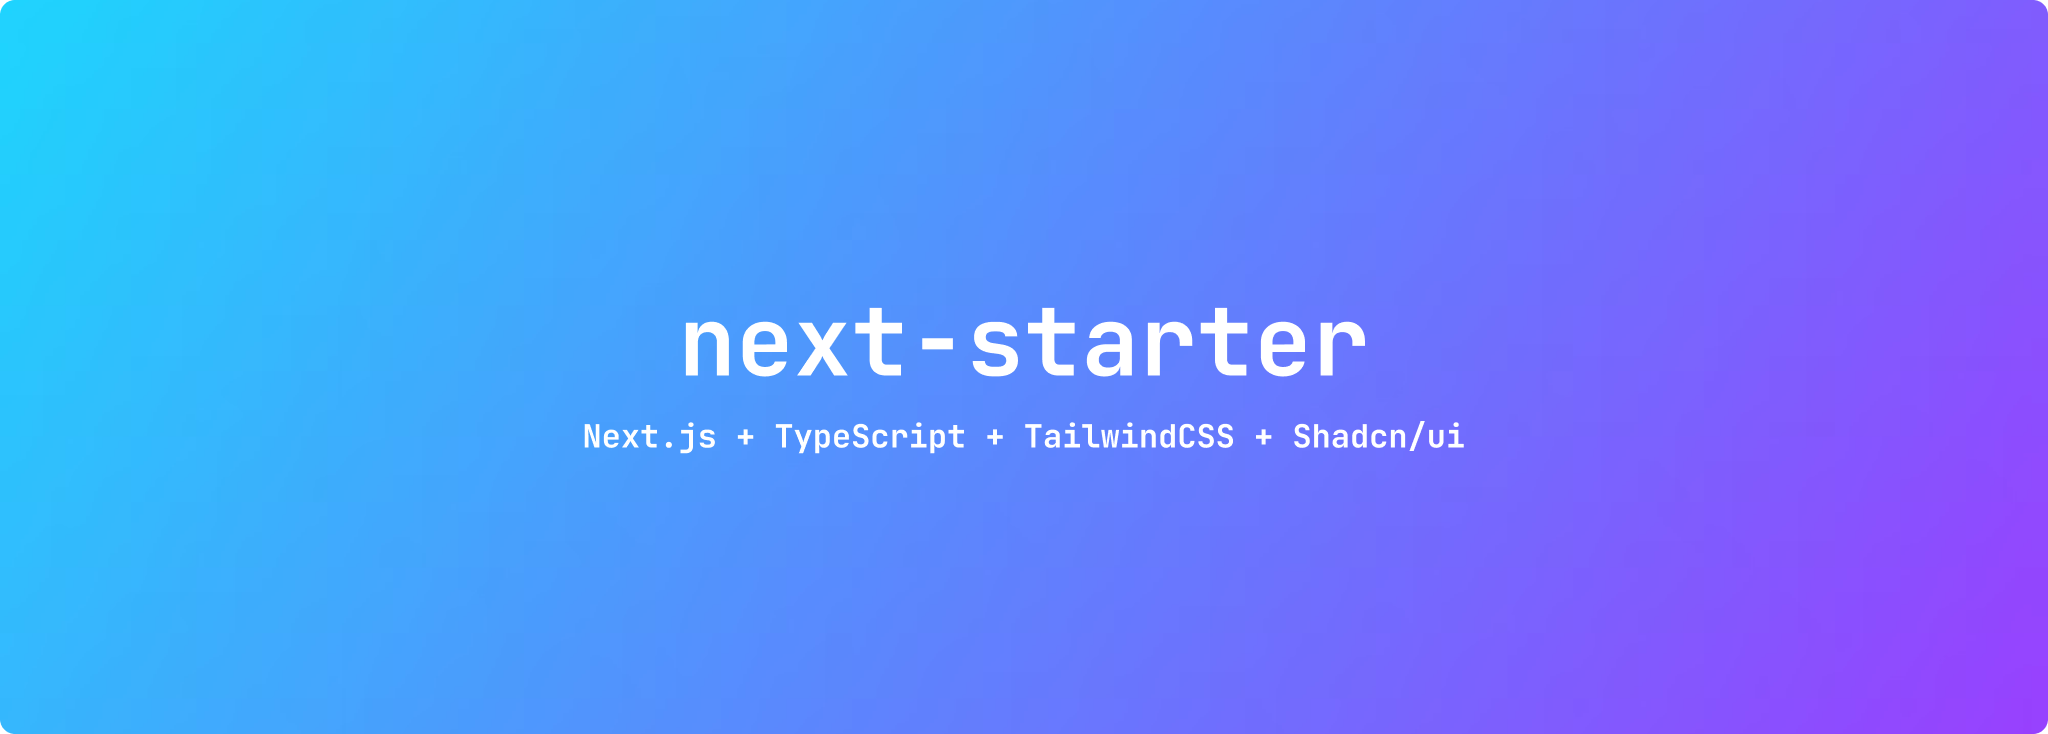
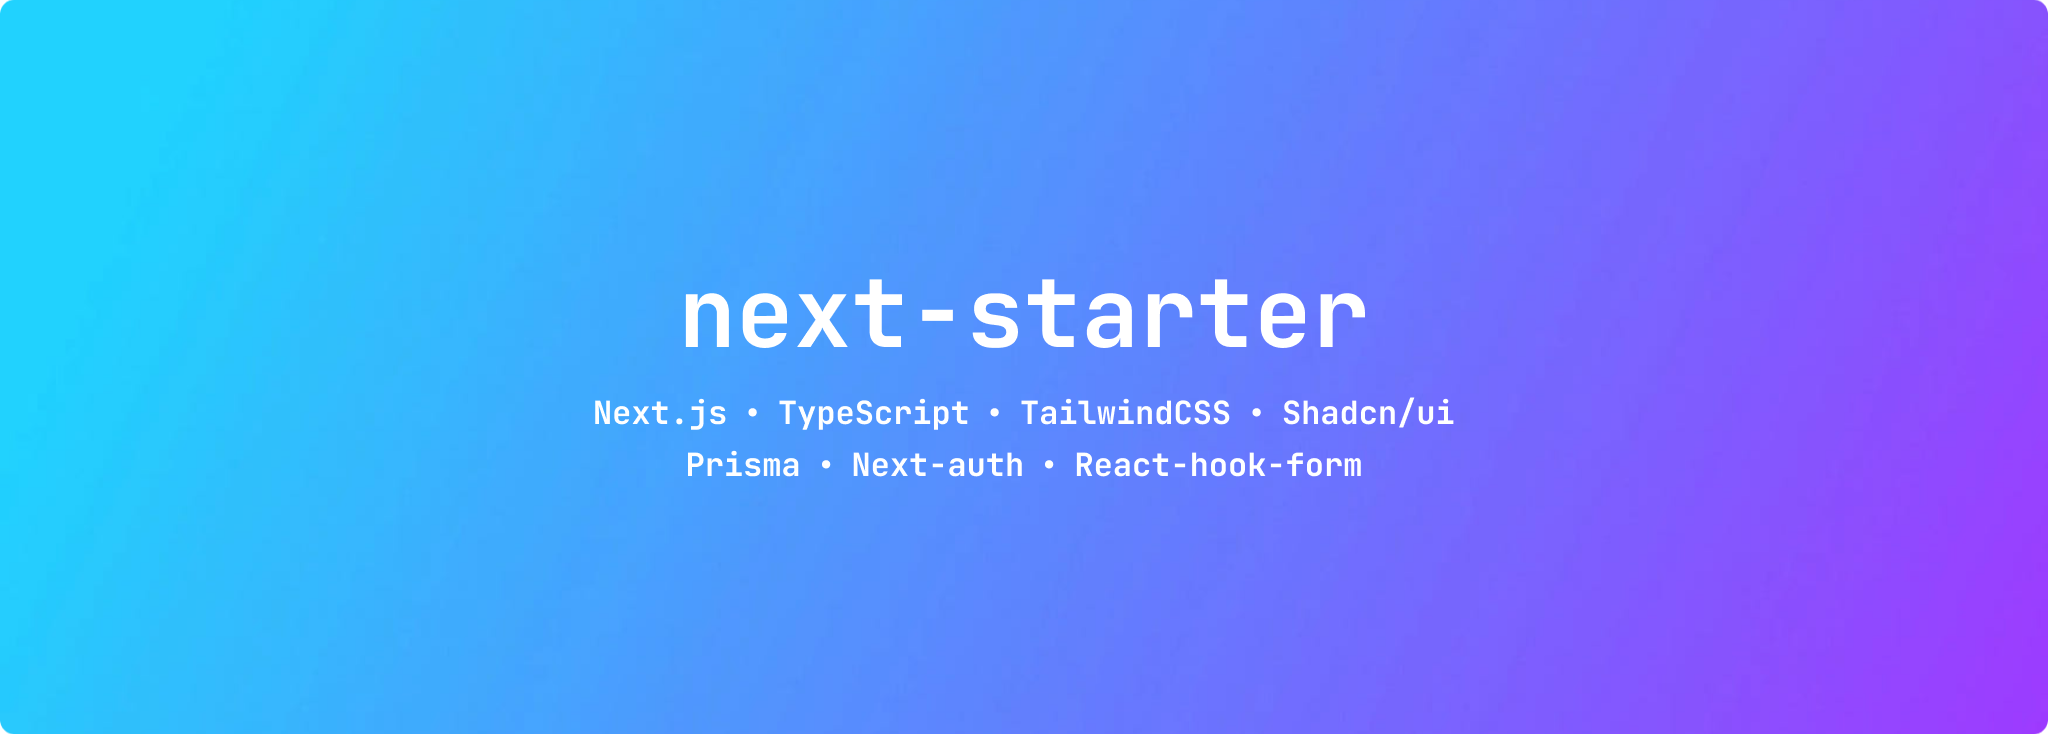
Feature/NS-31-change-shadcn/ui-theme (#77)
* feat: change theme

* fix: change the icons dark/light mode

* feat: add updated og image

Changed region(s): [[0.2812, 0.5395, 0.7188, 0.6594], [0.3125, 0.3896, 0.6875, 0.5095]]

diff --git a/src/styles/globals.css b/src/styles/globals.css
@@ -1,71 +1,54 @@
 @tailwind base;
 @tailwind components;
 @tailwind utilities;
- 
+
 @layer base {
   :root {
     --background: 0 0% 100%;
-    --foreground: 222.2 84% 4.9%;
-
+    --foreground: 240 10% 3.9%;
     --card: 0 0% 100%;
-    --card-foreground: 222.2 84% 4.9%;
- 
+    --card-foreground: 240 10% 3.9%;
     --popover: 0 0% 100%;
-    --popover-foreground: 222.2 84% 4.9%;
- 
-    --primary: 222.2 47.4% 11.2%;
-    --primary-foreground: 210 40% 98%;
- 
-    --secondary: 210 40% 96.1%;
-    --secondary-foreground: 222.2 47.4% 11.2%;
- 
-    --muted: 210 40% 96.1%;
-    --muted-foreground: 215.4 16.3% 46.9%;
- 
-    --accent: 210 40% 96.1%;
-    --accent-foreground: 222.2 47.4% 11.2%;
- 
+    --popover-foreground: 240 10% 3.9%;
+    --primary: 240 5.9% 10%;
+    --primary-foreground: 0 0% 98%;
+    --secondary: 240 4.8% 95.9%;
+    --secondary-foreground: 240 5.9% 10%;
+    --muted: 240 4.8% 95.9%;
+    --muted-foreground: 240 3.8% 46.1%;
+    --accent: 240 4.8% 95.9%;
+    --accent-foreground: 240 5.9% 10%;
     --destructive: 0 84.2% 60.2%;
-    --destructive-foreground: 210 40% 98%;
-
-    --border: 214.3 31.8% 91.4%;
-    --input: 214.3 31.8% 91.4%;
-    --ring: 222.2 84% 4.9%;
- 
+    --destructive-foreground: 0 0% 98%;
+    --border: 240 5.9% 90%;
+    --input: 240 5.9% 90%;
+    --ring: 240 5.9% 10%;
     --radius: 0.5rem;
   }
- 
+
   .dark {
-    --background: 222.2 84% 4.9%;
-    --foreground: 210 40% 98%;
- 
-    --card: 222.2 84% 4.9%;
-    --card-foreground: 210 40% 98%;
- 
-    --popover: 222.2 84% 4.9%;
-    --popover-foreground: 210 40% 98%;
- 
-    --primary: 210 40% 98%;
-    --primary-foreground: 222.2 47.4% 11.2%;
- 
-    --secondary: 217.2 32.6% 17.5%;
-    --secondary-foreground: 210 40% 98%;
- 
-    --muted: 217.2 32.6% 17.5%;
-    --muted-foreground: 215 20.2% 65.1%;
- 
-    --accent: 217.2 32.6% 17.5%;
-    --accent-foreground: 210 40% 98%;
- 
+    --background: 240 10% 3.9%;
+    --foreground: 0 0% 98%;
+    --card: 240 10% 3.9%;
+    --card-foreground: 0 0% 98%;
+    --popover: 240 10% 3.9%;
+    --popover-foreground: 0 0% 98%;
+    --primary: 0 0% 98%;
+    --primary-foreground: 240 5.9% 10%;
+    --secondary: 240 3.7% 15.9%;
+    --secondary-foreground: 0 0% 98%;
+    --muted: 240 3.7% 15.9%;
+    --muted-foreground: 240 5% 64.9%;
+    --accent: 240 3.7% 15.9%;
+    --accent-foreground: 0 0% 98%;
     --destructive: 0 62.8% 30.6%;
-    --destructive-foreground: 210 40% 98%;
- 
-    --border: 217.2 32.6% 17.5%;
-    --input: 217.2 32.6% 17.5%;
-    --ring: 212.7 26.8% 83.9%;
+    --destructive-foreground: 0 0% 98%;
+    --border: 240 3.7% 15.9%;
+    --input: 240 3.7% 15.9%;
+    --ring: 240 4.9% 83.9%;
   }
 }
- 
+
 @layer base {
   * {
     @apply border-border;

diff --git a/src/components/navbar/theme-toggle.tsx b/src/components/navbar/theme-toggle.tsx
@@ -15,8 +15,8 @@ export const ThemeToggle = () => {
       aria-label="theme toggle"
       onClick={() => setTheme(theme === 'light' ? 'dark' : 'light')}
     >
-      <Icons.sun className="hidden dark:block" />
-      <Icons.moon className="dark:hidden" />
+      <Icons.sun className="dark:hidden" />
+      <Icons.moon className="hidden dark:block" />
     </Button>
   );
 };
